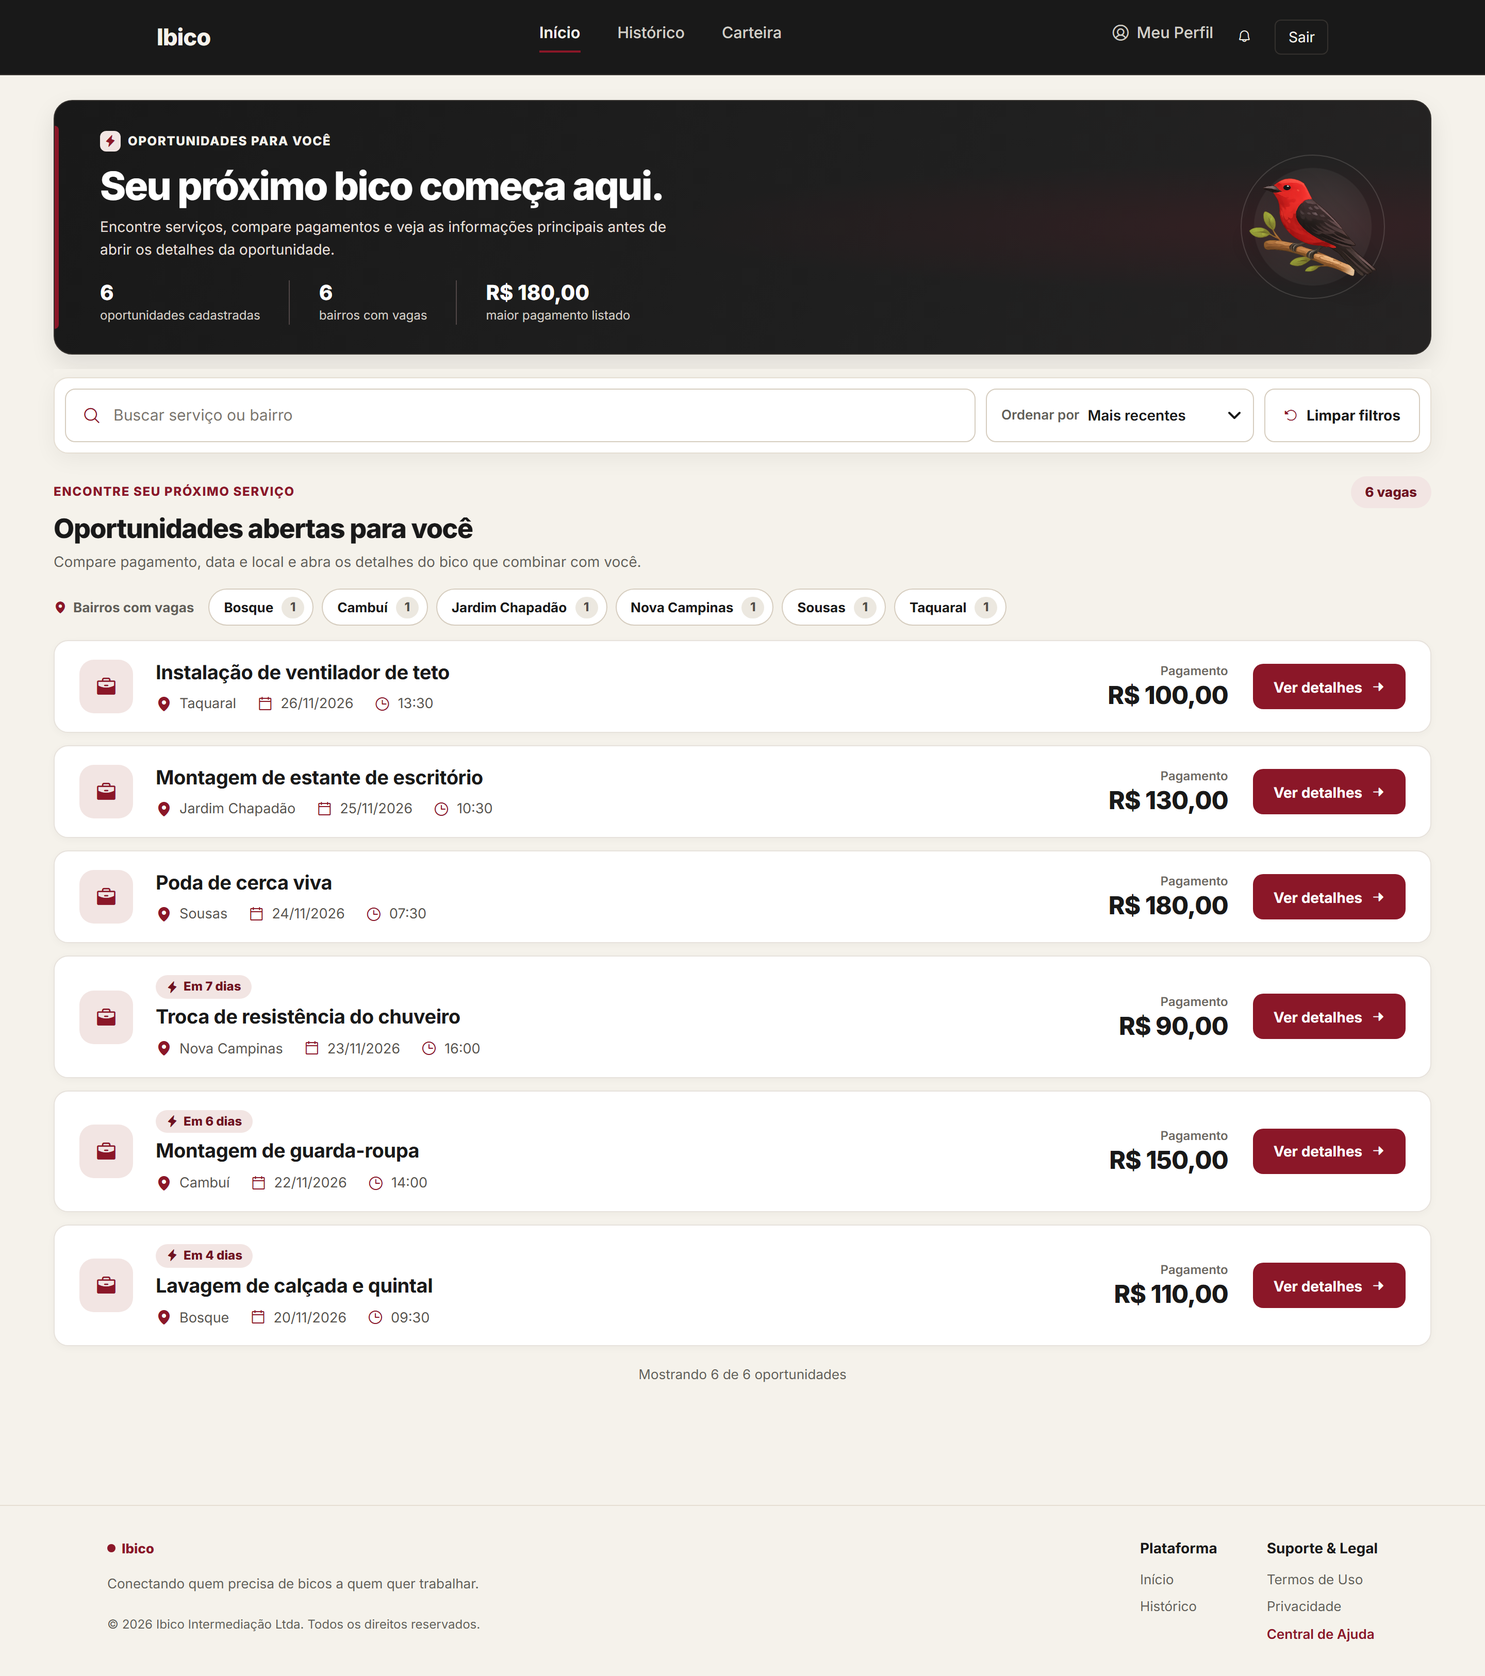
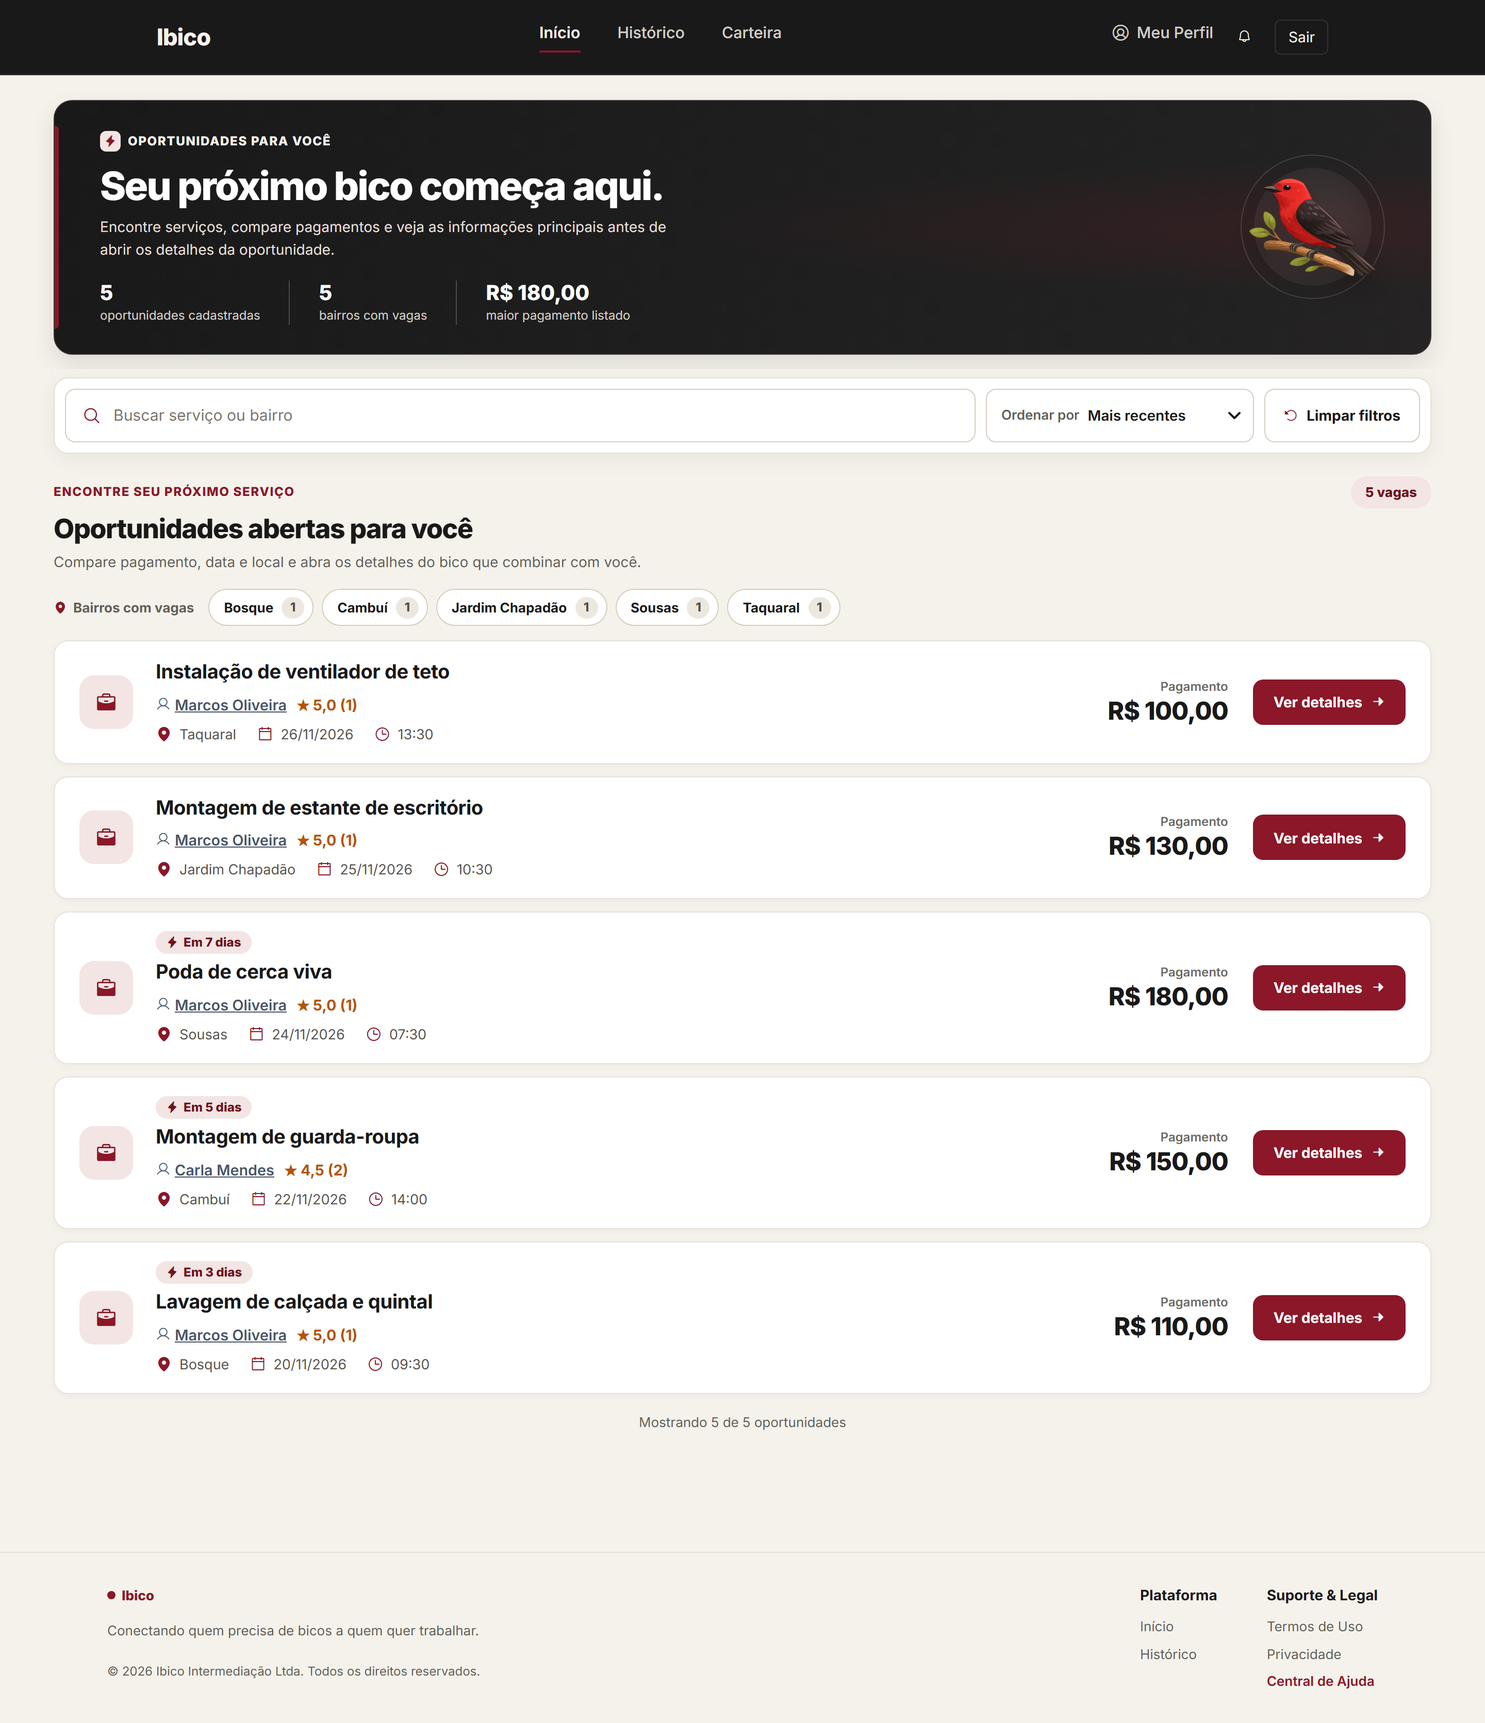
docs: prints do TCC e roteiro com a avaliação bidirecional

diff --git a/scripts/prints-tcc.js b/scripts/prints-tcc.js
@@ -70,7 +70,7 @@ const BICOS = {
     descricao: 'Ajudante para montagem de mesas e cadeiras, apoio no buffet e organização do espaço em confraternização de família.' },
   guardaRoupa:{ dono: 'carla',  titulo: 'Montagem de guarda-roupa', bairro: 'Cambuí', valor: '150.00', dias: 5, horario: '14:00',
     descricao: 'Montagem de guarda-roupa de 6 portas com espelho. As ferramentas básicas ficam por conta do profissional.' },
-  chuveiro:   { dono: 'carla',  titulo: 'Troca de resistência do chuveiro', bairro: 'Nova Campinas', valor: '90.00', dias: 6, horario: '16:00',
+  chuveiro:   { dono: 'carla',  titulo: 'Troca de resistência do chuveiro', bairro: 'Nova Campinas', valor: '90.00', dias: -2, horario: '16:00',
     descricao: 'Troca da resistência e revisão da fiação do chuveiro elétrico do banheiro social. Resistência já comprada.' },
   portao:     { dono: 'marcos', titulo: 'Pintura de portão', bairro: 'Castelo', valor: '250.00', dias: -7, horario: '08:30',
     descricao: 'Lixar e pintar portão de ferro de 3 metros com tinta esmalte preta. Tinta e pincéis por minha conta.' },
@@ -226,6 +226,17 @@ async function main() {
     await finalizar('marcos', 'portao');
     await avaliar('marcos', 'portao', 4, 'Pintura bem feita e acabamento caprichado. Atrasou um pouco no início, mas entregou no combinado.');
 
+    // Avaliações no sentido inverso: o trabalhador avalia o contratante do mesmo bico.
+    await avaliar('rafael', 'torneira', 5, 'A Carla explicou tudo direitinho, deixou o material separado e pagou na hora. Contratante nota 10.');
+    await avaliar('rafael', 'portao', 5, 'O Marcos deixou o portão liberado e a tinta pronta. Tudo combinado foi cumprido, foi tranquilo trabalhar.');
+
+    // Terceiro bico finalizado: Juliana e Carla se avaliam (Carla fecha com média 4,5 em 2 avaliações).
+    await candidatar('juliana', 'chuveiro', 'Sou eletricista de residências e levo o multímetro para testar a fiação antes de trocar a resistência.');
+    await decidir('carla', 'chuveiro', 'juliana', 'Aceito');
+    await finalizar('carla', 'chuveiro');
+    await avaliar('carla', 'chuveiro', 5, 'A Juliana trocou a resistência, revisou a fiação e ainda me explicou como evitar o problema. Muito profissional.');
+    await avaliar('juliana', 'chuveiro', 4, 'A Carla foi cordial e pagou certinho. Só demorou um pouco para liberar o acesso ao banheiro.');
+
     // Bico cancelado com estorno: aceita a Juliana (o Rafael é recusado automaticamente) e depois cancela.
     await candidatar('rafael', 'limpeza', 'Posso fazer a limpeza no dia combinado, tenho equipamento próprio.');
     await candidatar('juliana', 'limpeza', 'Trabalho com limpeza pós-obra e levo meus produtos.');
@@ -284,9 +295,19 @@ async function main() {
       const minutos = (msgs.length - i) * 6 + 50;
       await banco.query('UPDATE mensagens_chat SET criado_em = NOW() - INTERVAL ? MINUTE WHERE id = ?', [minutos, msgs[i].id]);
     }
-    // Avaliações: define a data explicitamente (evita o ON UPDATE sobrescrever).
-    await banco.query('UPDATE avaliacoes SET data_atualizacao = NOW() - INTERVAL 5 DAY WHERE bico_id = ?', [ids.bicos.portao]);
-    await banco.query('UPDATE avaliacoes SET data_atualizacao = NOW() - INTERVAL 2 DAY WHERE bico_id = ?', [ids.bicos.torneira]);
+    // Finalização e avaliações: torneira (há 2 dias) e chuveiro (há 1 dia) ainda estão dentro do prazo de 7 dias;
+    // o portão foi finalizado há 10 dias (prazo encerrado, avaliação só para leitura).
+    // A data é definida explicitamente nas duas colunas (evita o ON UPDATE sobrescrever).
+    for (const [bico, dias] of [['torneira', 2], ['chuveiro', 1], ['portao', 10]]) {
+      await banco.query("UPDATE historico_eventos_bicos SET data_evento = NOW() - INTERVAL ? DAY WHERE bico_id = ? AND status_novo = 'Finalizado'", [dias, ids.bicos[bico]]);
+      await banco.query("UPDATE movimentacoes_carteira SET criado_em = NOW() - INTERVAL ? DAY WHERE bico_id = ? AND tipo_movimentacao = 'CREDITO'", [dias, ids.bicos[bico]]);
+      await banco.query('UPDATE avaliacoes SET criado_em = NOW() - INTERVAL ? DAY, data_atualizacao = NOW() - INTERVAL ? DAY WHERE bico_id = ?', [dias, dias, ids.bicos[bico]]);
+      // Publicação, candidatura e reserva acontecem antes da finalização (ordem cronológica coerente nas telas).
+      await banco.query('UPDATE bicos SET criado_em = NOW() - INTERVAL ? DAY WHERE id = ?', [dias + 4, ids.bicos[bico]]);
+      await banco.query('UPDATE candidaturas SET criado_em = NOW() - INTERVAL ? DAY, atualizado_em = NOW() - INTERVAL ? DAY WHERE bico_id = ?', [dias + 3, dias + 2, ids.bicos[bico]]);
+      await banco.query('UPDATE historico_candidaturas h JOIN candidaturas c ON c.id = h.candidatura_id SET h.data_alteracao = NOW() - INTERVAL ? DAY WHERE c.bico_id = ?', [dias + 2, ids.bicos[bico]]);
+      await banco.query("UPDATE movimentacoes_carteira SET criado_em = NOW() - INTERVAL ? DAY WHERE bico_id = ? AND tipo_movimentacao = 'RESERVA'", [dias + 2, ids.bicos[bico]]);
+    }
 
     // ---- 6. Capturas -----------------------------------------------------------------------------------
     console.log('> Capturando telas...');
@@ -340,6 +361,10 @@ async function main() {
     await capturar({ arquivo: '07a-carteira-contratante.png', usuario: 'carla', url: '/carteira/contratante', fullPage: true });
     await capturar({ arquivo: '07b-carteira-trabalhador.png', usuario: 'rafael', url: '/carteira/trabalhador' });
     await capturar({ arquivo: '08-perfil-publico.png', usuario: 'carla', url: `/perfil/publico/${idRafael}` });
+    await capturar({ arquivo: '12a-avaliar-trabalhador.png', usuario: 'carla', url: `/bicos/${ids.bicos.torneira}/gerenciar`, fullPage: true, esperarSeletor: '#form-avaliacao-bico' });
+    await capturar({ arquivo: '12b-avaliar-contratante.png', usuario: 'rafael', url: `/bicos/${ids.bicos.torneira}`, fullPage: true, esperarSeletor: '#form-avaliacao-bico' });
+    await capturar({ arquivo: '12c-avaliacao-encerrada.png', usuario: 'marcos', url: `/bicos/${ids.bicos.portao}/gerenciar`, fullPage: true, esperarSeletor: '#avaliacao-somente-leitura' });
+    await capturar({ arquivo: '13-perfil-publico-contratante.png', usuario: 'rafael', url: `/perfil/publico/${ids.usuarios.carla}` });
     await capturar({
       arquivo: '09-publicar-bico.png', usuario: 'carla', url: '/bicos/novo', fullPage: true,
       preparar: async (p) => {

diff --git a/Docs/Teste/casos-de-teste.md b/Docs/Teste/casos-de-teste.md
@@ -3,9 +3,9 @@
 Todos os valores financeiros são **simulados** (não existe pagamento real).
 
 **Execução de referência:** 17/11/2026, Firefox (Playwright) + `node --test`, banco local `db_bico` (MariaDB 10.11).
-- Testes unitários (`npm run test:unit`): 32 de 32 aprovados (15 de idade/cadastro/perfil + 17 do cancelamento de bico), em `tests/unit/`.
-- Testes E2E (`npm test`): 56 de 56 aprovados (28 anteriores + 28 do roteiro CT02–CT13), em `tests/e2e/`.
-- A suíte completa (`npm run test:unit` e `npm test`) foi executada duas vezes seguidas em 17/11/2026 (11:33 e 11:34) e passou inteira nas duas, sem falhas intermitentes. O Playwright usa 2 workers.
+- Testes unitários (`npm run test:unit`): 57 de 57 aprovados (15 de idade/cadastro/perfil + 17 do cancelamento de bico + 25 da avaliação), em `tests/unit/`.
+- Testes E2E (`npm test`): 61 de 61 aprovados (56 anteriores + 5 da avaliação bidirecional), em `tests/e2e/`.
+- A suíte completa (`npm run test:unit` e `npm test`) foi executada em 17/11/2026 às 14:00, 14:01 e 14:11 e passou inteira em todas as execuções. Em uma execução intermediária, feita antes de ajustar os testes à remoção de e-mail e idade da lista de candidatos, houve falhas (3 pelo ajuste pendente e 2 por travamento gráfico do Firefox); na execução seguinte tudo passou. O Playwright usa 2 workers.
 - Cada teste cria as próprias contas e bicos (e-mails e títulos únicos) pelas rotas reais da aplicação e não depende de dados prévios. Os helpers ficam em `tests/e2e/support/cenario.js`. Só o CT10 consulta o banco (somente leitura), para conferir o evento de finalização, que nenhuma tela exibe.
 
 **Legenda de status**
@@ -25,10 +25,13 @@ Todos os valores financeiros são **simulados** (não existe pagamento real).
 | CT10 | `roteiro/finalizacao-chat-avaliacao.spec.js` › CT10 (finalização e pagamento; bloqueios) | Aprovado |
 | CT11 | `roteiro/candidaturas.spec.js` › CT11 (cancelar Pendente pela tela; Aceita recusada) | Aprovado |
 | CT12 | `roteiro/finalizacao-chat-avaliacao.spec.js` › CT12 (troca de mensagens e bloqueio de terceiros) | Aprovado |
-| CT13 | `roteiro/finalizacao-chat-avaliacao.spec.js` › CT13 (média no perfil público; avaliações recusadas) | Aprovado |
+| CT13 – Avaliação pelo contratante | `roteiro/finalizacao-chat-avaliacao.spec.js` › CT13 (média no perfil público; avaliações recusadas); `tests/unit/avaliacao.unit.js` | Aprovado |
 | CT14 | `contratante/cancelamento-bico.spec.js` + `tests/unit/cancelamento.unit.js` | Aprovado |
 | CT15 | `contratante/cancelamento-bico.spec.js` + `tests/unit/cancelamento.unit.js` | Aprovado |
 | CT16 | `contratante/cancelamento-bico.spec.js` + `tests/unit/cancelamento.unit.js` | Aprovado |
+| CT17 – Avaliação pelo trabalhador | `roteiro/avaliacao-bidirecional.spec.js` › "o trabalhador avalia o contratante e o contratante vê a nota no perfil público"; `roteiro/finalizacao-chat-avaliacao.spec.js` › CT13 recusada (usuário de fora, 403); `tests/unit/avaliacao.unit.js` | Aprovado |
+| CT18 – Prazo e edição da avaliação | `roteiro/avaliacao-bidirecional.spec.js` › "formulário volta preenchido…" e "depois de 7 dias da finalização…"; `tests/unit/avaliacao.unit.js` › "avaliação: edição e prazo de 7 dias" | Aprovado |
+| CT19 – Reputação e privacidade | `roteiro/avaliacao-bidirecional.spec.js` › "candidato mostra média e link do perfil; feed e detalhes…", "o trabalhador avalia o contratante…" (perfis públicos sem e-mail, CPF, idade e saldo) e "Aguardando sua avaliação…" | Aprovado |
 
 ---
 
@@ -92,10 +95,10 @@ Todos os valores financeiros são **simulados** (não existe pagamento real).
 **Resultado esperado:** os participantes veem e enviam mensagens (envio responde 201); o terceiro recebe 404 "Conversa não encontrada." (a consulta só encontra a conversa para os dois participantes; 403 "Acesso não autorizado." fica para perfis que não são contratante nem trabalhador); mensagem vazia responde 400.
 **Status:** Aprovado. E2E em `roteiro/finalizacao-chat-avaliacao.spec.js`: contratante e trabalhador enviam (201) e veem as mensagens um do outro; mensagem vazia responde 400; um terceiro (outro trabalhador e outro contratante) não abre, não lê e não envia (resposta 404 "Conversa não encontrada.", sem vazar o conteúdo, e a mensagem do intruso não é gravada); sem login redireciona para `/login`.
 
-## CT13 – Avaliação de bico finalizado
+## CT13 – Avaliação pelo contratante
 **Procedimento:** como contratante, `POST /bicos/:id/avaliacao` com nota de 1 a 5 em um bico Finalizado; repetir com bico não finalizado e com nota fora do intervalo.
 **Resultado esperado:** bico finalizado com nota válida salva a avaliação; bico não finalizado responde 409 "Somente bicos finalizados podem ser avaliados."; nota fora de 1 a 5 responde 400 "A nota deve ser um número inteiro de 1 a 5."
-**Status:** Aprovado. E2E em `roteiro/finalizacao-chat-avaliacao.spec.js`: com notas 5 (pela tela) e 4, o perfil público do trabalhador mostra média 4,5, "2 avaliações", notas, comentários e o nome do contratante; reavaliar o mesmo bico atualiza a nota (média 3,0); bico Em andamento ou Aberto responde 409; notas 0, 6, -1, "abc", 4.5 e vazia respondem 400; outro contratante e trabalhador recebem 403; nada é gravado nas recusas.
+**Status:** Aprovado. E2E em `roteiro/finalizacao-chat-avaliacao.spec.js`: com notas 5 (pela tela) e 4, o perfil público do trabalhador mostra média 4,5, "2 avaliações", notas, comentários e o nome do contratante; reavaliar o mesmo bico atualiza a nota (média 3,0); bico Em andamento ou Aberto responde 409; notas 0, 6, -1, "abc", 4.5 e vazia respondem 400; outro contratante e um trabalhador que não é do bico recebem 403; nada é gravado nas recusas. Os unitários de `tests/unit/avaliacao.unit.js` repetem as regras de nota, estado do bico e comentário com banco falso.
 
 ## CT14 – Cancelar bico Aberto (sem estorno)
 **Procedimento:** como contratante, com um bico Aberto e uma candidatura Pendente, clicar em "Cancelar bico" em `/bicos/:id/gerenciar`, informar um motivo opcional e confirmar no modal (`POST /bicos/:id/cancelar`).
@@ -112,10 +115,26 @@ Todos os valores financeiros são **simulados** (não existe pagamento real).
 **Resultado esperado:** (a) 409 "Bicos finalizados não podem ser cancelados." sem alterar saldo nem extrato; (b) e (c) 403 e o bico continua ativo; (d) a segunda tentativa responde 409 "Este bico já foi cancelado." e o estorno é feito uma única vez (também há bloqueio se já existir `CREDITO` ou `ESTORNO` para o bico).
 **Status:** Aprovado. E2E "bico Finalizado não pode ser cancelado", "outro contratante e o trabalhador não conseguem cancelar o bico" e "cancelar duas vezes não estorna duas vezes"; unitários de "cancelamentos bloqueados".
 
+## CT17 – Avaliação pelo trabalhador
+**Procedimento:** (a) como trabalhador do bico, com o bico Finalizado, `POST /bicos/:id/avaliacao` (ou o formulário "Avaliar contratante" na página do bico) com nota de 1 a 5 e comentário; (b) como um usuário de fora do bico (outro trabalhador ou outro contratante), tentar o mesmo.
+**Resultado esperado:** (a) responde 200 "Avaliação registrada." e a avaliação aparece no perfil público do contratante (`/perfil/publico/:id`) com nota, comentário e nome do trabalhador; a avaliação do contratante ao trabalhador é independente (duas avaliações no mesmo bico); (b) 403 e nada é gravado.
+**Status:** Aprovado. E2E em `roteiro/avaliacao-bidirecional.spec.js`: o trabalhador avalia, o contratante avalia o trabalhador (2 avaliações no banco) e o perfil público do contratante mostra ★ 5,0, "1 avaliação", o comentário e o nome do trabalhador; em `roteiro/finalizacao-chat-avaliacao.spec.js` (CT13 recusada): outro contratante e outro trabalhador recebem 403. Unitários: "o trabalhador do bico avalia o contratante", "contratante e trabalhador avaliam o mesmo bico de forma independente" e "um terceiro recebe 403".
+
+## CT18 – Prazo e edição da avaliação
+**Procedimento:** (a) dentro de 7 dias após a finalização, abrir a tela do bico finalizado (contratante em `/bicos/:id/gerenciar`; trabalhador em `/bicos/:id`), avaliar e reabrir a página; editar a avaliação; (b) depois de 7 dias da finalização (data do evento de finalização em `historico_eventos_bicos`), tentar criar ou editar a avaliação e abrir a tela.
+**Resultado esperado:** (a) antes de avaliar o formulário está vazio, com "Salvar avaliação" e "Você pode avaliar até DD/MM/AAAA"; depois, a estrela, o comentário e o botão "Atualizar avaliação" voltam preenchidos com "Você pode editar até DD/MM/AAAA"; a edição responde "Avaliação atualizada." e mantém uma só avaliação; comentário só com espaços é gravado como NULL; (b) 409 "O prazo de 7 dias para avaliar este bico terminou.", nada muda no banco e a tela mostra a avaliação só para leitura, sem formulário nem botão.
+**Status:** Aprovado. E2E em `roteiro/avaliacao-bidirecional.spec.js`: "formulário volta preenchido (contratante e trabalhador)…" e "depois de 7 dias da finalização não cria nem edita; a tela fica só para leitura" (o teste envelhece a finalização por SQL nos dados que ele mesmo criou). Unitários em `tests/unit/avaliacao.unit.js`: edição dentro do prazo atualiza, exatamente no 7º dia ainda é permitido, depois de 7 dias não cria nem edita (409) e comentário só com espaços vira NULL.
+
+## CT19 – Reputação e privacidade
+**Procedimento:** como contratante, abrir a lista de candidatos de um bico; como trabalhador, abrir o feed (`/hometrabalhador`) e os detalhes do bico; abrir os perfis públicos de trabalhador e de contratante; abrir a home do contratante.
+**Resultado esperado:** cada candidato mostra ★ média (n avaliações) ou "Sem avaliações" e o link "Ver perfil", sem e-mail nem idade; o feed, os detalhes do bico e o histórico mostram o contratante com nota e link para o perfil; o perfil público mostra apenas nome, tipo de perfil, "membro desde", média e quantidade de avaliações, bicos finalizados e as avaliações recebidas ("Ainda sem avaliações" quando não há), sem e-mail, CPF, idade ou saldo; o card "Bicos para avaliar" conta só bicos finalizados ainda não avaliados por este usuário e dentro do prazo.
+**Status:** Aprovado. E2E em `roteiro/avaliacao-bidirecional.spec.js`: "candidato mostra média e link do perfil; feed e detalhes mostram a nota do contratante" (★ 4,0 com "1 avaliação", "Sem avaliações", link correto, lista sem e-mail, "E-mail:" nem "N anos"; feed ★ 5,0 (1) com link; detalhes e histórico com nota e link); "o trabalhador avalia o contratante…" (perfis públicos sem o e-mail e sem as palavras CPF, saldo e idade; "Ainda sem avaliações" e 404 para perfil inexistente); "Aguardando sua avaliação…" (contagem 0 → 1 → 0, prazo vencido não conta e a avaliação do trabalhador não consome a pendência).
+
 ---
 
 ## Observações
-- Todos os 16 casos têm teste automatizado aprovado. Os E2E antigos são, em sua maioria, de navegação e de interface; os do roteiro (CT02–CT13) conferem o resultado de cada operação.
+- Todos os 19 casos têm teste automatizado aprovado. Os E2E antigos são, em sua maioria, de navegação e de interface; os do roteiro (CT02–CT19) conferem o resultado de cada operação.
+- O CT17 a CT19 exigem a tabela `avaliacoes` nova (schema atual ou `migrations/002_avaliacao_bidirecional.sql`).
 - O servidor precisa estar rodando em `http://localhost:3000` (`npm start`) com o banco ligado antes de `npm test`, e `NODE_ENV=development` (o cadastro dos testes usa CPFs fictícios de 1 a 9).
 - O E2E do cancelamento exige o banco com o tipo `ESTORNO` (schema atual ou `migrations/001_estorno.sql`).
 - A planilha antiga `Docs/Teste/Casos de Teste (1).xlsx` (citava `walletService.js`, JWT e filtro por categoria, que não existem neste projeto) foi removida do repositório.
